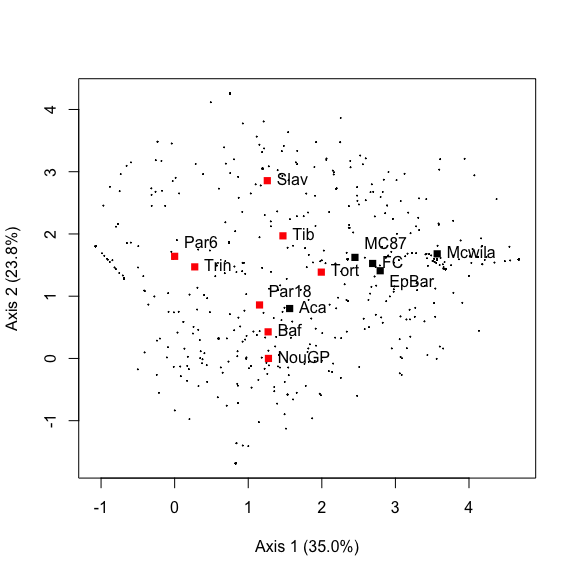
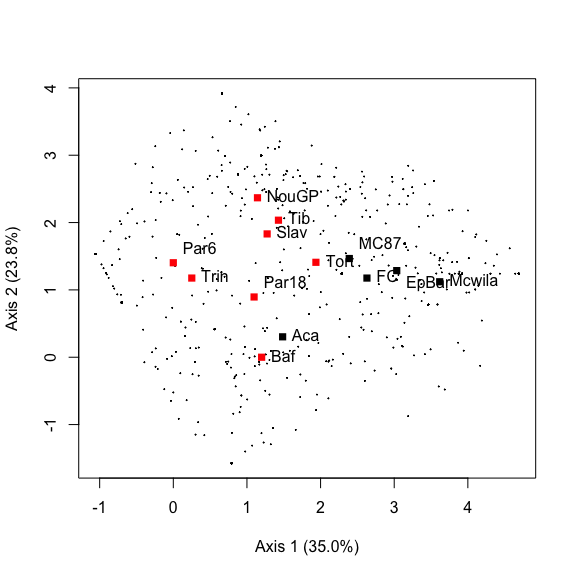
with structure

diff --git a/CouacAnalyses.md b/CouacAnalyses.md
@@ -8,24 +8,20 @@ Bruno Hérault
     -   [Archaeological diagnosis](#archaeological-diagnosis)
         -   [Prospection](#prospection)
         -   [Dating](#dating)
-    -   [Effect of anthropization on tree assemblages](#effect-of-anthropization-on-tree-assemblages)
+    -   [Effect of past-anthropization on tree assemblages](#effect-of-past-anthropization-on-tree-assemblages)
+        -   [Forest Structure](#forest-structure)
         -   [Forest Composition](#forest-composition)
-        -   [Botanical Families](#botanical-families)
-        -   [Indicator Species](#indicator-species)
-        -   [Diversity](#diversity)
-    -   [Ethnobotanical surveys](#ethnobotanical-surveys)
-        -   [Ethics in ethnobotanical data access](#ethics-in-ethnobotanical-data-access)
-        -   [Data collection](#data-collection)
-        -   [Creation of a single ethnobotanical database](#creation-of-a-single-ethnobotanical-database)
-        -   [Uses and parts categories](#uses-and-parts-categories)
-        -   [Synthetic use values](#synthetic-use-values)
-        -   [Testing local assemblages](#testing-local-assemblages)
+        -   [Forest Diversity](#forest-diversity)
+    -   [Ethnobotanical Analysis](#ethnobotanical-analysis)
+        -   [Data Compilation](#data-compilation)
+        -   [Traditional uses](#traditional-uses)
+        -   [Plant parts](#plant-parts)
+        -   [Statistical Analyses](#statistical-analyses)
 -   [Results](#results)
-    -   [Effect of pre-columbian anthropization on current tree communities](#effect-of-pre-columbian-anthropization-on-current-tree-communities)
-        -   [Forest composition](#forest-composition-1)
-        -   [Botanical Families](#botanical-families-1)
-        -   [Indicator Species](#indicator-species-1)
-        -   [Diversity](#diversity-1)
+    -   [Effect of past-anthropization on tree assemblages](#effect-of-past-anthropization-on-tree-assemblages-1)
+        -   [Forest Structure](#forest-structure-1)
+        -   [Forest Composition](#forest-composition-1)
+        -   [Forest Diversity](#forest-diversity-1)
 
 ``` r
 knitr::opts_chunk$set(echo = TRUE)
@@ -50,13 +46,19 @@ data<-data[!data$Libelle=="Tres",]
 #sel<-sel[(sel$NumCarre=="204"),]
 data<-data[!(data$Libelle=="NouPP"),]
 #data<-rbind(data,sel)
-sel<-data[(data$Libelle=="Tort"),]
+sel<-data[(data$NomForet=="Montagne Tortue"),]
+sel<-sel[!is.na(sel$X),]
 sel<-sel[(sel$X<=100 & sel$Y<=100),]
 data<-data[!(data$Libelle=="Tort"),]
 data<-rbind(data,sel)
-sel<-data[(data$Libelle=="Trin"),]
+sel<-data[(data$NomForet=="Trinit_"),]
 sel<-sel[(sel$NumCarre=="1"),]
 data<-data[!(data$Libelle=="Trin"),]
+data<-rbind(data,sel)
+sel<-data[(data$Libelle=="EpBar"),]
+sel<-sel[!is.na(sel$X),]
+sel<-sel[sel$Y>100,]
+data<-data[!(data$Libelle=="EpBar"),]
 data<-rbind(data,sel)
 data$Libelle<-as.factor(as.character(data$Libelle))
 tab<-data.frame("Plot_Name"=names(table(data$Libelle)), 
@@ -65,27 +67,34 @@ tab<-data.frame("Plot_Name"=names(table(data$Libelle)),
                 "N_genera"=as.numeric(summary(tapply(data$Genre,data$Libelle,unique))[,1]),
                 "N_species"=as.numeric(summary(tapply(data$idTaxon,data$Libelle,unique))[,1]),
                 "Perc_Determination"=round(100-as.numeric(table(data[data$Espece=="Indet.",]$Libelle)/table(data$Libelle)*100),2),
-                "Plot_Area"=c(1,1, 1.80, "NA", 1.83, "NA",1,1,1.56,1,1,1,1),
+                "Plot_Area"=c(1,1, 0.80, "NA", 1.83, "NA",1,1,1.56,1,1,1,1),
                 "Type"=c("AAP","ANP","AAP","AAP","AAP","AAP","ANP","ANP","ANP","ANP","ANP","ANP","ANP"))
 tab[tab$Plot_Name=="Mcwila",]$N_species=length(unique(paste(data[data$Libelle=="Mcwila",]$Genre,data[data$Libelle=="Mcwila",]$Espece)))
+tab$Plot_Area<-as.numeric(as.character(tab$Plot_Area))
+```
+
+    ## Warning: NAs introduced by coercion
+
+``` r
+tab[tab$Plot_Name=="Mcwila",]$Plot_Area=max(data[data$Libelle=="Mcwila",]$X)*max(data[data$Libelle=="Mcwila",]$Y)/10000
 kable(tab)
 ```
 
-| Plot\_Name |  N\_trees|  N\_family|  N\_genera|  N\_species|  Perc\_Determination| Plot\_Area | Type |
-|:-----------|---------:|----------:|----------:|-----------:|--------------------:|:-----------|:-----|
-| Aca        |       454|         42|         93|         148|                95.59| 1          | AAP  |
-| Baf        |       756|         39|        106|         183|                93.65| 1          | ANP  |
-| EpBar      |       974|         49|        142|         283|                85.52| 1.8        | AAP  |
-| FC         |       766|         44|        113|         225|                98.04| NA         | AAP  |
-| MC87       |       824|         44|        126|         276|                89.56| 1.83       | AAP  |
-| Mcwila     |       654|         41|        103|         174|                98.32| NA         | AAP  |
-| NouGP      |       536|         43|        104|         169|                89.37| 1          | ANP  |
-| Par18      |       499|         42|        103|         158|                96.39| 1          | ANP  |
-| Par6       |       964|         41|        106|         189|                94.19| 1.56       | ANP  |
-| Slav       |       620|         44|        106|         200|                88.23| 1          | ANP  |
-| Tib        |       440|         41|        114|         176|                95.00| 1          | ANP  |
-| Tort       |       496|         46|        122|         193|                94.15| 1          | ANP  |
-| Trin       |       650|         40|        112|         187|                98.92| 1          | ANP  |
+| Plot\_Name |  N\_trees|  N\_family|  N\_genera|  N\_species|  Perc\_Determination|  Plot\_Area| Type |
+|:-----------|---------:|----------:|----------:|-----------:|--------------------:|-----------:|:-----|
+| Aca        |       454|         42|         93|         148|                95.59|      1.0000| AAP  |
+| Baf        |       756|         39|        106|         183|                93.65|      1.0000| ANP  |
+| EpBar      |       425|         39|         99|         164|                83.76|      0.8000| AAP  |
+| FC         |       766|         44|        113|         225|                98.04|          NA| AAP  |
+| MC87       |       824|         44|        126|         276|                89.56|      1.8300| AAP  |
+| Mcwila     |       654|         41|        103|         173|                98.32|      1.1704| AAP  |
+| NouGP      |       536|         43|        104|         169|                89.37|      1.0000| ANP  |
+| Par18      |       499|         42|        103|         158|                96.39|      1.0000| ANP  |
+| Par6       |       964|         41|        106|         189|                94.19|      1.5600| ANP  |
+| Slav       |       620|         44|        106|         200|                88.23|      1.0000| ANP  |
+| Tib        |       440|         41|        114|         176|                95.00|      1.0000| ANP  |
+| Tort       |       496|         46|        122|         193|                94.15|      1.0000| ANP  |
+| Trin       |       650|         40|        112|         187|                98.92|      1.0000| ANP  |
 
 *Description of the Sampled Plots*
 
@@ -100,69 +109,69 @@ The surface of each plot was diagnosed by archaeologists. Evidence for pre-Colum
 
 Dating was performed by AMS by the Radiocarbon Laboratory (A. Mickiewicz University, Poznań, Poland) following their routine protocol. Briefly, samples of charcoal dug from pits (after mechanical removal of macroscopic contamination visible under a binocular microscope) were treated with 1M HCl (80°C, 20+ min), 0.025-0.2M NaOH and then 0.25M HCl (80°C, 1 hour). After treatment with each reagent, the samples were rinsed with deionized water (Millipore) until pH = 7. Content of 14C in samples of carbon was measured using the spectrometer "Compact Carbon AMS" (National Electrostatics Corporation, USA) as described by Goslar et al. (2004). The measurement was performed by comparing intensities of ionic beams of 14C, 13C and 12C measured for each sample and for standard samples (modern standard: “Oxalic Acid II” and standard of 14C-free carbon: “background”). In each AMS run, 30-33 samples of unknown age were measured, alternating with measurements of 3-4 samples of modern standard and 1-2 samples of background (coal). Conventional 14C age was calculated using correction for isotopic fractionation according to Stuiver and Polach (1977), based on the ratio of 13C/12C measured in the AMS spectrometer simultaneously with the ratio 14C/12C. Calibration of 14C age was performed using the program OxCal ver. 3.10 (Bronk Ramsey, 2001, 2005). Calibration was performed against the 14C calibration curve IntCal04 (Reimer, 2004).
 
-Effect of anthropization on tree assemblages
---------------------------------------------
+Effect of past-anthropization on tree assemblages
+-------------------------------------------------
+
+### Forest Structure
 
 ### Forest Composition
 
 The differences in floristic composition among plots were compared with a Detrended Correspondence Factor Analysis (DCA), using the “decorana” function (Hill and Gauch, 1980; Oksanen and Minchin, 1997) of the “vegan” package (Oksanen et al., 2015) available on R.
 
-### Botanical Families
+#### Botanical Families
 
 The distribution and the relative abundance of the 20 families that accounted for most individuals in the plots were submitted to a Wilcoxon-Mann-Whitney test to determine the significance of differences for each family in distribution between AAP and ANP plots.
 
-### Indicator Species
+#### Indicator Species
 
 Indicator species are species whose abundance was found in this study to be correlated with Pre-Columbian occupation. This correlation can be either direct (managed species) or indirect (consequence of a specific pattern of recolonization after occupation), and positive (species for which human occupation is favorable) or negative (species for which past human occupation is detrimental). We used the Dufrene and Legendre (1997) methodology with the package indicspecies (De Cáceres et al.,2012).
 
-### Diversity
+### Forest Diversity
 
 Diversity profiles were drawn for each plot using the “entropart” package (Marcon and Hérault, 2014) available in R. Differences between AAP and ANP plots were tested using Wilcoxon-Mann-Whitney test for the 3 main used orders of diversity (richness, Shannon index, Simpson index).
 
-Ethnobotanical surveys
-----------------------
+Ethnobotanical Analysis
+-----------------------
+
+### Data Compilation
+
+Databases were created taking into account information of the 457 species present in all plots. Species represented by only one or two individuals were excluded, considering that rare species are less known and therefore more likely to be misidentified. These represented 6.6 % of all individuals (538/8104 individuals) and 46.6 % of the species (419/899 species). Botanical data were updated and standardized according to APGIII classification (Boyle et al., 2013; Bremer et al., 2009).
+
+#### Data collection from contemporary surveys
 
 Due to the absence of an existing pre-Columbian database on the uses of plants in forests from the Guiana shield, a compilation of contemporary ethnobotanical surveys was conducted. Although contemporary uses probably differ in some ways from past uses, the compilation of available information for present-day Amerindian groups (Palikur, Arawak, Wayãpi, Teko, and Kali’na) belonging to the three linguistic families in French Guiana (respectively Arawak, Tupi-Guarani and Karib) was thought to be the best proxy for potential pre-Columbian uses.
 
 The choice of the datasets to be compiled was driven by three selection criteria: 1) geographical coherence (inclusion of the main cultural groups of the Guiana shield and their knowledge of tree species in the region), 2) completeness (high number of taxa recorded) and 3) quality (reliable methodologies). Most of the information is comprised of unpublished data from previous work, with the exception of those available for the Arawak and Kali’na ethnic groups (details below).
 
-### Ethics in ethnobotanical data access
+#### Data collection from interviews
 
 All the ethnobotanical data were obtained before adoption of the ABS laws in French Guiana, and no written informed consent document was signed between traditional authorities and the researchers, except for the Teko with whom a document was signed between the Chief and the concerned investigators in July 2013. The other works were concluded under the verbal agreement of authorities during long years of continuous fieldwork. The data were nevertheless anonymized in the supplementary material in order to prevent the inappropriate reutilization of traditional knowledge traditional knowledge from undue reutilization.
 
-### Data collection
+Palikur and Arawak-Lokono belong to the Arawak linguistic family, Wayãpi and Teko to the Tupi-Guarani linguistic family and Kali'na to the Karib linguistic family. These three families are amongst the most important of those spoken in the Eastern Amazonian lowlands. People of the five Amerindian following groups now occupy different ecosystems, ranging from estuaries and coastal savannahs to *terra firme* forests.
 
-Palikur and Arawak-Lokono belong to the Arawak linguistic family, Wayãpi and Teko to the Tupi-Guarani linguistic family and Kali'na to the Karib linguistic family. These three families are amongst the most important of those spoken in the Eastern Amazonian lowlands. People of these five Amerindian groups now occupy different ecosystems, ranging from estuaries and coastal savannahs to *terra firme* forests.
+-   Palikur ethnobotanical data were obtained from P. Grenand and colleagues (cf. acknowledgements), accumulated during 30 years of research with key knowledge holders of Palikur communities of French Guiana. The knowledge was recorded through completer.
 
-Palikur ethnobotanical data were obtained from P. Grenand and colleagues (cf. acknowledgements), accumulated during 30 years of research with key knowledge holders of Palikur communities of French Guiana. The knowledge was recorded through completer. Wayãpi ethnobotanical data were obtained from P. Grenand, and were collected over 40 years of research with key knowledge holders of Wayãpi communities of French Guiana. The knowledge was recorded through completer.
+-   Wayãpi ethnobotanical data were obtained from P. Grenand, and were collected over 40 years of research with key knowledge holders of Wayãpi communities of French Guiana. The knowledge was recorded through completer.
 
-Kali’na ethnobotanical data were compiled by P. Grenand, C. Moretti and M. Fleury, integrating bibliographic data (Ahlbrinck, 1956; Aublet, 1775; Kloos, 1971; ONF, 2004; van Andel, 2000) and field data (ethnobotanical studies conducted between 2006 and 2008). The field data was recorded through completer.
+-   Kali’na ethnobotanical data were compiled by P. Grenand, C. Moretti and M. Fleury, integrating bibliographic data (Ahlbrinck, 1956; Aublet, 1775; Kloos, 1971; ONF, 2004; van Andel, 2000) and field data (ethnobotanical studies conducted between 2006 and 2008). The field data was recorded through completer.
 
-Teko ethnobotanical data were collected by G. Odonne, D. Davy and M. Bruno. The knowledge was recorded through ethnobotanical walks (Prance et al., 1987) and through repeated passages in the 1 ha plots with seven informants.
+-   Teko ethnobotanical data were collected by G. Odonne, D. Davy and M. Bruno. The knowledge was recorded through ethnobotanical walks (Prance et al., 1987) and through repeated passages in the 1 ha plots with seven informants.
 
-Arawak ethnobotanical data were obtained from van Andel’s study with Arawak populations in northwestern Guyana (van Andel, 2000). The knowledge was recorded through repeated passages in seven plots of one hectare and through ethnobotanical walks.
+-   Arawak ethnobotanical data were obtained from van Andel’s study with Arawak populations in northwestern Guyana (van Andel, 2000). The knowledge was recorded through repeated passages in seven plots of one hectare and through ethnobotanical walks.
 
-### Creation of a single ethnobotanical database
-
-Databases were created taking into account information of the 457 species present in all plots. Species represented by only one or two individuals were excluded, considering that rare species are less known and therefore more likely to be misidentified. These represented 6.6 % of all individuals (538/8104 individuals) and 46.6 % of the species (419/899 species). Botanical data were updated and standardized according to APGIII classification (Boyle et al., 2013; Bremer et al., 2009).
-
-### Uses and parts categories
-
-#### Traditional uses
+### Traditional uses
 
 Traditional use categories were compiled following previous studies (Balée, 1994; Chazdon and Coe, 1999; Grenand, 1992; Prance et al., 1987): “construction”, “firewood”, “human food”, “medicine and magic”, and “arts and crafts”. A species can enter from 0 to 5 categories. The “construction” category includes species used for posts and other structural elements of buildings. Species of large diameter (&gt; 50cm diameter at breast height) used now as timber in French Guiana and requiring the use of a chainsaw, were removed. Without metal, these species were not used or significantly less used by pre-Columbian populations than in the present day. Species used split or requiring no mechanical process for preparation of their wood (round wood) were retained for analysis. Then, “firewood” category was intentionally kept apart from construction woods as contemporary Amerindians often collected firewood dry, leading to a distinct pattern of collecting. The “human food” category encompasses main and secondary foods, as well as plants used for seasoning, excluding plants used as fishing/hunting baits. The “medicinal and magic” category includes medicinal plants, poisons, body dyes, plants used for hygiene. The category “arts and crafts” includes plants used to make musical instruments, weapons, games, tools, paddles, pirogues, and artisanal dyes.
 
-#### Plant parts
+### Plant parts
 
 The second system of classification used is that of the “plant parts” categories, as the use categories are not necessarily the best proxy to determine the impacts of traditional uses on the resource (felling of a tree to make a house has evident consequences, but taking a piece of bark from a tree for medicine might provoke a defensive reaction enhancing the tree’s probability of survival). We judged that making categories of both uses and parts at the same time would split the dataset into too many subtle categories. Plant parts categories we retained are: “bark”, “wood and stems”, “seeds and fruits”, “leaves and flowers”, “exudates”, and “underground organs”.
 
-### Synthetic use values
+### Statistical Analyses
 
-Use values were established separately for traditional uses and for plant parts, in a binary way, based on the assumption that while contemporary uses may reflect past uses, the frequency of contemporary use does not necessarily reflect the frequency of pre-Columbian use. Each species cited at least once for a given contemporary use was thus given a use value of 1 for the corresponding category (traditional uses or plant parts), regardless of how many present day groups use it. The major advantage of the non-quantitative approach is to avoid the bias induced by the variable presence of a species in the territories of different ethnic groups within the region, and the probable methodological differences among the ethnobotanical studies, leading to imbalances between cultural groups.
+Synthetic use values were established separately for traditional uses and for plant parts, in a binary way, based on the assumption that while contemporary uses may reflect past uses, the frequency of contemporary use does not necessarily reflect the frequency of pre-Columbian use. Each species cited at least once for a given contemporary use was thus given a use value of 1 for the corresponding category (traditional uses or plant parts), regardless of how many present day groups use it. The major advantage of the non-quantitative approach is to avoid the bias induced by the variable presence of a species in the territories of different ethnic groups within the region, and the probable methodological differences among the ethnobotanical studies, leading to imbalances between cultural groups. To compare the distribution of use values between AAP and ANP plots, Wilcoxon-Mann-Whitney tests were used.
 
-To compare the distribution of use values between AAP and ANP plots, Wilcoxon-Mann-Whitney tests were used.
-
-### Testing local assemblages
+#### Testing local assemblages
 
 *to be done by Maxime Burst*
 
@@ -171,10 +180,51 @@ Results
 
 *The archeological diagnosis part, as currently written, should be moved to supplementary materials*
 
-Effect of pre-columbian anthropization on current tree communities
-------------------------------------------------------------------
+Effect of past-anthropization on tree assemblages
+-------------------------------------------------
 
-### Forest composition
+### Forest Structure
+
+``` r
+library(BIOMASS)
+library(ggplot2)
+dataTaxo<-unique(data.frame(genus=data$Genre,species=data$Espece))
+#dataTaxoC<-correctTaxo(dataTaxo$genus,dataTaxo$species)
+#save(dataTaxoC,file="taxo.RData")
+#table(dataTaxoC$nameModified)
+load(file="taxo.RData")
+data$wd<-getWoodDensity(data$Genre,data$Espece, stand=data$Libelle)$meanWD
+```
+
+    ## The reference dataset contains 16467 wood density values 
+    ## Your taxonomic table contains 979 taxa
+
+``` r
+data$height<-1/(1/40.53+1/(1.89*data$Circonference/pi))         # Molto Equation
+data$agb<-computeAGB(D=data$Circonference/pi,WD=data$wd, H=data$height)
+tab$Plot_Area<-as.numeric(as.character(tab$Plot_Area))
+tab$agb<-as.numeric(tapply(data$agb,data$Libelle,sum))/tab$Plot_Area
+tab$N<-tab$N_trees/tab$Plot_Area
+tab$Dg<-as.numeric(tapply(data$Circonference/pi,data$Libelle,function(x) {sqrt(mean(x^2))}))
+tab$ba<-as.numeric(tapply(data$Circonference/pi/2,data$Libelle,function(x) {sum(pi*(x/100)^2)}))/tab$Plot_Area
+data_str<-data.frame(var=c(rep("AGB",13),rep("N trees",13),rep("Quad Diam",13), rep("Basal area",13)),value=c(tab$agb,tab$N,tab$Dg,tab$ba),type=rep(tab$Type,4))
+data_str<-na.omit(data_str)
+var<-levels(data_str$var)
+data_str$var<-as.character(data_str$var)
+for (i in var){
+test<-round(wilcox.test(data_str[data_str$var==i & data_str$type=="AAP",]$value,
+            data_str[data_str$var==i & data_str$type=="ANP",]$value)$p.value,3)
+data_str[data_str$var== i,]$var<-paste(i," (P=", test, ")", sep="")}
+p <- ggplot(data = data_str, aes(x=var, y=value)) + 
+  geom_boxplot(aes(fill=type)) +
+  theme(axis.text.y=element_blank(), axis.title.y=element_blank())+
+  coord_flip()
+p + facet_wrap( ~ var, scales="free")
+```
+
+![](CouacAnalyses_files/figure-markdown_github/struct-1.png)
+
+### Forest Composition
 
 AAPs and ANPs plots are well separated along the 1st axis of the DCA (figure 2). AAP sites were grouped towards the right side of the axis 1 that represents 35% of the observed variation in species composition. Past human occupation is thus the main source of differences in species composition among our sampled plots.
 
@@ -200,7 +250,7 @@ text(x, y, tab$Plot_Name, pos=4)
 
 *Detrended Correspondance Analysis performed on the tree composition dataset. Small dots are species. Large dots are sampled sites, either AAPs (black) or ANPs (red).*
 
-### Botanical Families
+#### Botanical Families
 
 The 20 most abundant families were unequally distributed between AAPs and ANPs (Figure XX). Only three families had clear patterns of segregation (*P* &lt; 0.05). These are Arecaceae, Burseraceae and Lauraceae that are significantly more frequent in AAPs. On the other hand, Apocynaceae and Lecythidaceae are marginally (*P*&lt;0.1) less frequent in AAPs.
 
@@ -229,13 +279,14 @@ p + facet_wrap( ~ Var2, scales="free")
 
 *Relative frequencies of the 20 most abundant families in either Apparently Anthropized Plot (AAP) or Apparently Non-anthropized Plot (ANP). Wilcoxon Rank test of significance.*
 
-### Indicator Species
+#### Indicator Species
 
 The indicator species analysis led to the identification of 13 indicator species (*i.e.* species that were both more exclusive and more abundant) for AAPs, and 4 species only for ANPs. Among the species associated with AAPs were 3 *Inga*, 2 species of Burseraceae, 2 of Arecaceae and 2 Euphorbiaceae. *Oenocarpus bacaba* and *Astrocaryum sciophilum*, both palms, were especially present on the plot MCwila. *Pourouma minor*, a common successional species, was found mainly in plots Aca and FC. Concerning indicator species for ANPs, two Lecythidaceae species stands out among which *Lecythis persistens* known to be locally abundant, *e.g.* in the Paracou sites Par6 and Par18. The other two species associated with ANPs were less abundant, but highly exclusive.
 
 ``` r
 library(indicspecies)
 #IS<-multipatt(as.data.frame.matrix(data_dca),cluster=as.numeric(tab$Type),duleg=T) # save time
+#save(IS,file="IS.Rdata")
 load("IS.Rdata")
 indic<-data.frame(Species=colnames(data_dca)[IS$sign[,5]<0.05],
                   Indicator=IS$sign$index[IS$sign[,5]<0.05],
@@ -257,25 +308,31 @@ kable(indic)
 | Family          | Species                 | Indicator |  Strength|  Pvalue|
 |:----------------|:------------------------|:----------|---------:|-------:|
 | Euphorbiaceae   | Aparisthmium cordatum   | AAP       |     0.775|   0.040|
-| Arecaceae       | Astrocaryum sciophilum  | AAP       |     0.916|   0.025|
-| Euphorbiaceae   | Conceveiba guianensis   | AAP       |     0.901|   0.030|
-| Fabaceae        | Inga acrocephala        | AAP       |     0.824|   0.045|
+| Arecaceae       | Astrocaryum sciophilum  | AAP       |     0.911|   0.020|
+| Fabaceae        | Batesia floribunda      | AAP       |     0.775|   0.040|
+| Euphorbiaceae   | Conceveiba guianensis   | AAP       |     0.870|   0.020|
+| Meliaceae       | Guarea gomma            | AAP       |     0.775|   0.040|
 | Fabaceae        | Inga alba               | AAP       |     0.857|   0.020|
-| Fabaceae        | Inga huberi             | AAP       |     0.892|   0.040|
-| Salicaceae      | Laetia procera          | AAP       |     0.898|   0.035|
-| Arecaceae       | Oenocarpus bacaba       | AAP       |     0.875|   0.035|
-| Urticaceae      | Pourouma minor          | AAP       |     0.889|   0.015|
-| Burseraceae     | Protium apiculatum      | AAP       |     0.851|   0.025|
-| Burseraceae     | Protium trifoliolatum   | AAP       |     0.963|   0.025|
-| Humiriaceae     | Sacoglottis cydonioides | AAP       |     0.843|   0.040|
-| Lecythidaceae   | Couratari multiflora    | ANP       |     1.000|   0.025|
-| Lecythidaceae   | Lecythis persistens     | ANP       |     0.729|   0.010|
-| Melastomataceae | Mouriri crassifolia     | ANP       |     1.000|   0.035|
-| Simaroubaceae   | Simaba cedron           | ANP       |     1.000|   0.035|
+| Lauraceae       | Licaria martiniana      | AAP       |     0.861|   0.040|
+| Arecaceae       | Oenocarpus bacaba       | AAP       |     0.873|   0.015|
+| Urticaceae      | Pourouma minor          | AAP       |     0.770|   0.015|
+| Burseraceae     | Protium apiculatum      | AAP       |     0.838|   0.030|
+| Burseraceae     | Protium decandrum       | AAP       |     0.826|   0.045|
+| Burseraceae     | Protium trifoliolatum   | AAP       |     0.963|   0.010|
+| Humiriaceae     | Sacoglottis cydonioides | AAP       |     0.843|   0.020|
+| Anacardiaceae   | Thyrsodium spruceanum   | AAP       |     0.737|   0.045|
+| Apocynaceae     | Aspidosperma album      | ANP       |     1.000|   0.030|
+| Rubiaceae       | Chimarrhis turbinata    | ANP       |     0.847|   0.045|
+| Lecythidaceae   | Couratari multiflora    | ANP       |     1.000|   0.015|
+| Lecythidaceae   | Gustavia hexapetala     | ANP       |     0.740|   0.020|
+| Lecythidaceae   | Lecythis persistens     | ANP       |     0.729|   0.005|
+| Melastomataceae | Mouriri crassifolia     | ANP       |     1.000|   0.020|
+| Simaroubaceae   | Simaba cedron           | ANP       |     1.000|   0.020|
+| Fabaceae        | Swartzia polyphylla     | ANP       |     0.861|   0.045|
 
 *Indicator species in either Apparently Anthropized Plot (AAP) or Apparently Non-anthropized Plot (ANP), Families, Botanical names, Strength of the Association and P values.*
 
-### Diversity
+### Forest Diversity
 
 Alpha diversities were assessed for each plot through their diversity profiles that allow to tract the relative importance of rare species in shaping the the plot ranking. Generally, all plots (AAPs and ANPs) share a similar decreasing pattern of diversity. Nevertheless, for q = 0 (species richness),the anthropized plots AAP tend to have higher diversity (Wilcoxon tests, P=0.12) but the weak signal disappears with increasing q (P=0.43 for q=1, P=0.72 for q=2).
 
